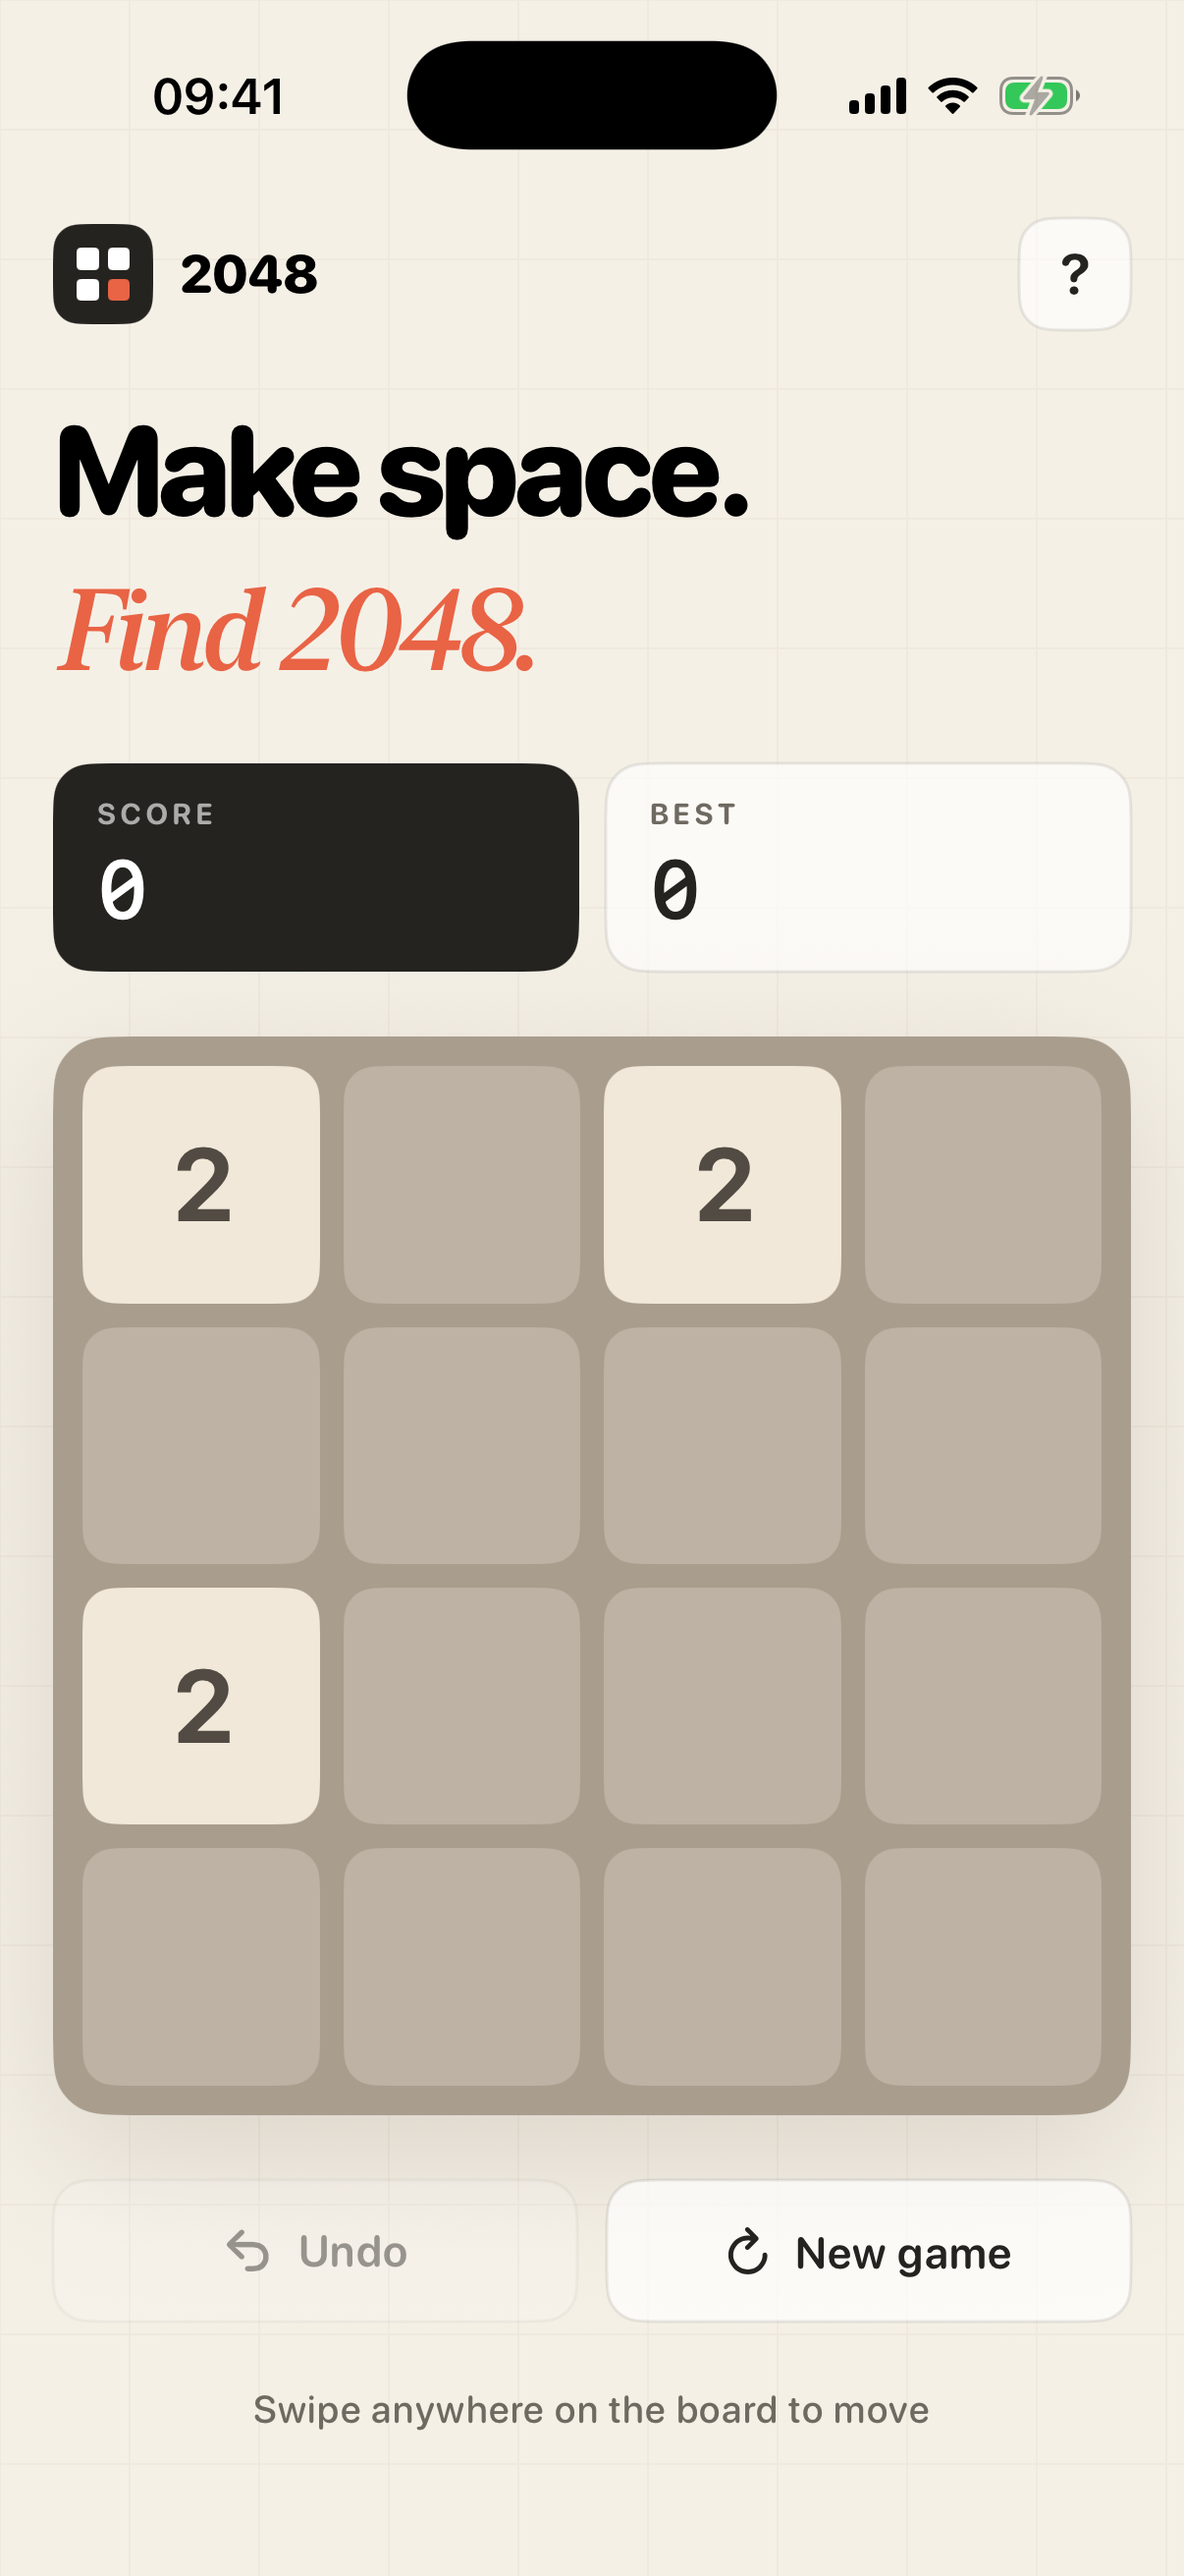
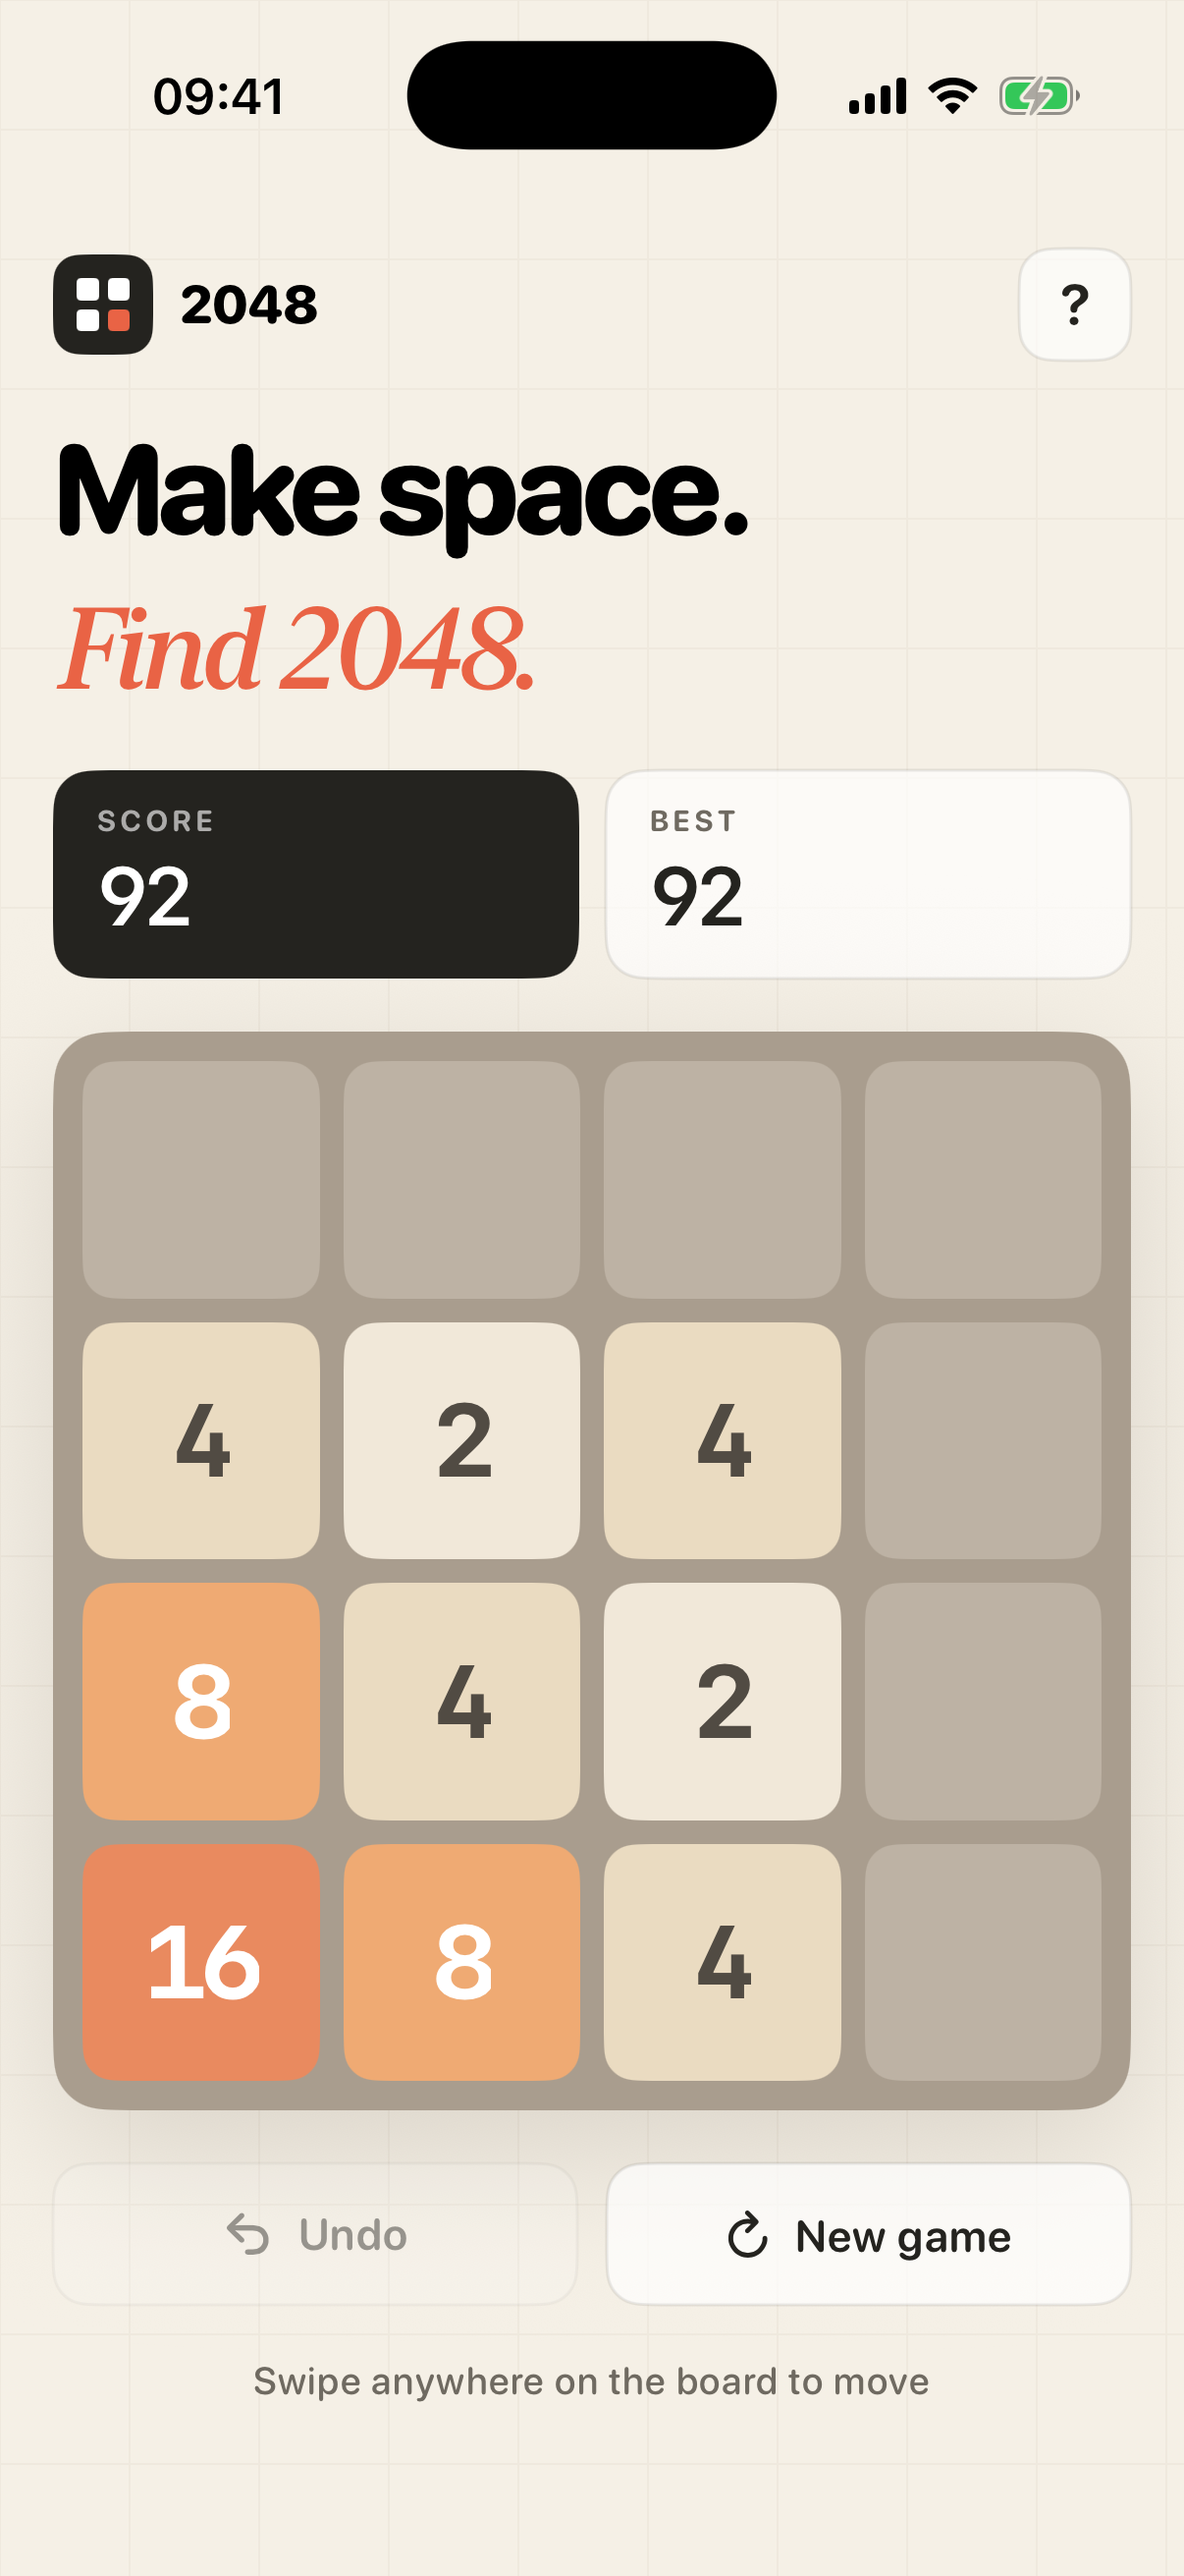
Show the apps in the documentation, and stop the manifest drifting from them
The screenshots were three stale captures from before the iOS layout change and
the Android animation work, and only the README used them. Every other document
described the interface without ever showing it.

Recaptured all three clients from the current build and added five more web
states, then put them where they carry weight:

- README: the three clients side by side, plus a gallery of the mobile layout,
  win, game over, restart confirmation, and the rules page.
- docs/architecture.md: the three clients above the runtime-boundary table, so
  "equivalent capability, not pixel identity" is visible rather than asserted.
- docs/testing.md: the five states that make-screenshots-web captures, beside
  the manual review checklist they exist to support.
- CONTRIBUTING.md: the visual target, above the iconography rules.

The web captures come from `make screenshots-web`, so they are reproducible
rather than hand-taken; the native captures come from the iPhone 17 Pro
simulator and a Pixel 6 emulator.

Recapturing exposed a latent problem. manifest.json advertised its screenshot as
1440x1526 while the new capture is 1440x1566, and the test asserted the same
stale literal, so both agreed with each other and neither agreed with the file.
The test now reads the PNG header and compares the manifest's declared size to
the actual image for every declared screenshot, which makes the assertion
self-maintaining. Confirmed it fails, naming both values, when the manifest and
[…]

diff --git a/tests/web/static.test.js b/tests/web/static.test.js
@@ -29,7 +29,17 @@ test("manifest, sitemap, robots, and referenced icon assets are valid", () => {
     assert.equal(manifest.icons.some(icon => icon.sizes === "192x192"), true);
     assert.equal(manifest.icons.some(icon => icon.sizes === "512x512"), true);
     assert.equal(manifest.shortcuts.length >= 2, true);
-    assert.equal(manifest.screenshots.some(screenshot => screenshot.sizes === "1440x1526"), true);
+    // Assert the declared screenshot size against the file itself rather than a
+    // literal. Recapturing a screenshot changes its dimensions, and a hardcoded
+    // string silently becomes a lie about what the manifest advertises.
+    assert.equal(manifest.screenshots.length > 0, true);
+    for (const screenshot of manifest.screenshots) {
+        const file = path.join(root, screenshot.src);
+        assert.ok(fs.statSync(file).size > 0, `${screenshot.src} should exist`);
+        const header = fs.readFileSync(file).subarray(16, 24);
+        const declared = `${header.readUInt32BE(0)}x${header.readUInt32BE(4)}`;
+        assert.equal(screenshot.sizes, declared, `${screenshot.src} is ${declared}, manifest says ${screenshot.sizes}`);
+    }
     assert.match(read("robots.txt"), /Sitemap: https:\/\//);
     assert.match(read("sitemap.xml"), /<urlset/);
     for (const asset of [

diff --git a/.github/README.md b/.github/README.md
@@ -97,9 +97,23 @@ The result is a codebase where you can read one platform's implementation in iso
 
 ## Screenshots
 
+The same round, mid-game, on all three clients. Each is a real capture from the current build — the web shots are produced deterministically by `make screenshots-web`, and the native shots come from a simulator and an emulator.
+
 | Web | iOS | Android |
 | :---: | :---: | :---: |
-| ![2048 web app showing the editorial layout, score panel, and game board](../images/web-version-UI.png) | ![2048 SwiftUI app running on an iPhone simulator](../images/IOS-UI.png) | ![2048 Jetpack Compose app running on a Pixel emulator](../images/android-ui.png) |
+| ![2048 web app showing the editorial layout, score panel, and 4×4 game board](../images/web-version-UI.png) | ![2048 SwiftUI app on an iPhone 17 Pro simulator, showing the board and score cards](../images/IOS-UI.png) | ![2048 Jetpack Compose app on a Pixel 6 emulator, showing the board and score cards](../images/android-ui.png) |
+
+### Web states
+
+| Mobile layout | Win | Game over |
+| :---: | :---: | :---: |
+| ![The web game at a 390px mobile width with on-screen direction controls](../images/web-mobile-gameplay.png) | ![The win overlay after reaching 2048, offering a new game or continued play](../images/web-win.png) | ![The game-over overlay on a full board with no available merges](../images/web-loss.png) |
+
+| New-game confirmation | Rules and strategy |
+| :---: | :---: |
+| ![The restart confirmation dialog warning that the current round will be replaced](../images/web-restart-dialog.png) | ![The About page describing the rules, strategy, and project details](../images/web-about.png) |
+
+Regenerate every web capture with `make screenshots-web`; output lands in the gitignored `output/playwright/latest/`.
 
 ---
 

diff --git a/docs/testing.md b/docs/testing.md
@@ -134,7 +134,17 @@ Tests may also drive state through launch arguments (iOS) or launch state (Andro
 
 ## Manual UI review
 
-Automated coverage does not replace looking at the screen. For every changed surface, inspect normal gameplay, help/about, restart confirmation, win, and game-over states where applicable, and check:
+Automated coverage does not replace looking at the screen. `make screenshots-web` captures these five states at desktop and mobile widths deterministically, so a diff against them is a fast way to spot an unintended visual change:
+
+| Gameplay | Restart confirmation | Win |
+| :---: | :---: | :---: |
+| ![Normal gameplay with a partially filled board](../images/web-version-UI.png) | ![The confirmation dialog shown before replacing an active round](../images/web-restart-dialog.png) | ![The win overlay after reaching 2048](../images/web-win.png) |
+
+| Game over | Mobile layout | About |
+| :---: | :---: | :---: |
+| ![The game-over overlay on a locked board](../images/web-loss.png) | ![The mobile layout with on-screen direction controls](../images/web-mobile-gameplay.png) | ![The rules and strategy page](../images/web-about.png) |
+
+For every changed surface, inspect normal gameplay, help/about, restart confirmation, win, and game-over states where applicable, and check:
 
 - Compact and large breakpoints
 - Icon centering, at every icon, by geometry rather than font metrics

diff --git a/docs/architecture.md b/docs/architecture.md
@@ -32,6 +32,15 @@ That is a deliberate trade. A shared core would guarantee parity mechanically bu
 
 The cost of this approach is that a rules change must be made three times. That is accepted, and it is why the invariant list below is written to be unambiguous.
 
+## The same contract, three presentations
+
+Each client renders the same board, score pair, and action bar with native idioms. Pixel identity is not the goal; equivalent capability, hierarchy, and feedback are.
+
+| Web | iOS | Android |
+| :---: | :---: | :---: |
+| ![The web client's board, score cards, and action bar](../images/web-version-UI.png) | ![The SwiftUI client showing the same layout on iPhone](../images/IOS-UI.png) | ![The Compose client showing the same layout on a Pixel](../images/android-ui.png) |
+| Inline SVG icons | SF Symbols | Material vectors |
+
 ## Runtime boundaries
 
 | Concern | Web | iOS | Android |

diff --git a/.github/CONTRIBUTING.md b/.github/CONTRIBUTING.md
@@ -94,6 +94,12 @@ There is no autoformatter enforced in CI, so match the surrounding code rather t
 
 ## UI and accessibility changes
 
+This is the visual target. Match its density, iconography, and hierarchy rather than introducing a new style:
+
+| Web | iOS | Android |
+| :---: | :---: | :---: |
+| ![The web client's board and controls](../images/web-version-UI.png) | ![The iOS client's board and controls](../images/IOS-UI.png) | ![The Android client's board and controls](../images/android-ui.png) |
+
 Use SVG on web, SF Symbols on iOS, and Material vectors on Android. **Never use Unicode arrows, emoji, or text glyphs as interface icons** — they depend on fonts that may not load and they cannot be centered reliably.
 
 Icons must be centered by geometry and layout, not by font metrics, and the enclosing control must carry an accessible name.
